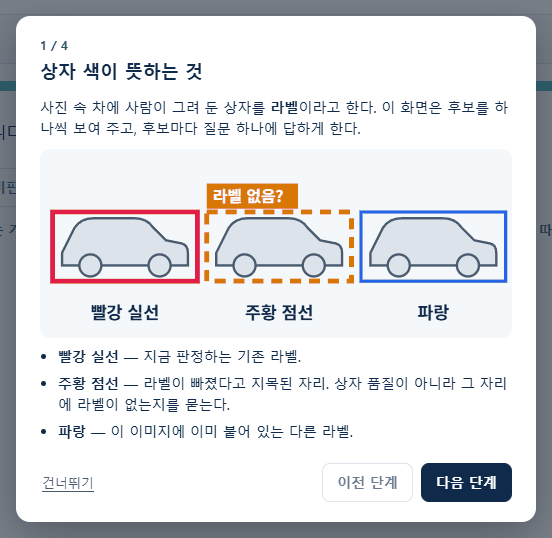
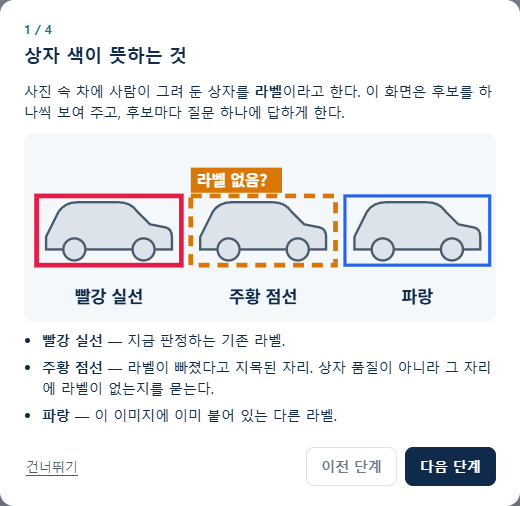
docs: replace README judging screenshots with synthetic demo images

diff --git a/README.md b/README.md
@@ -55,11 +55,13 @@
 - **튜토리얼 1단계** — 처음 열면 상자 색(빨강 실선 = 판정할 라벨, 주황 점선 = 라벨이 빠졌다고 지목된 자리, 파랑 = 다른 라벨)을 먼저 보여 준다.
 - **튜토리얼 3단계** — 누락을 오류로 고르면 같은 실제 객체끼리 같은 번호(M1, M2…)를 붙여 한 객체를 두 번 세지 않게 한다.
 
-<img src="docs/assets/judging-screen.png" alt="누락 후보를 판정하는 화면 — 사진은 흐리게 처리됨" width="720">
+<img src="docs/assets/judging-screen-existing.png" alt="기존 라벨을 판정하는 화면 — 합성 데모 이미지" width="720">
 
-- **판정 화면** — 질문 하나, 판정 버튼 셋(단축키 1·2·3), 누락이면 객체 번호, 진행률과 저장 상태를 한 화면에 둔다. 위 화면은 train 연습 묶음이다.
+<img src="docs/assets/judging-screen.png" alt="누락 후보를 판정하는 화면 — 합성 데모 이미지" width="720">
 
-> 사진은 일부러 흐리게 처리했고 파일명도 바꿨다. nuImages 이미지는 비상업 조건(CC BY-NC-SA)이라 재배포하지 않는다.
+- **판정 화면** — 질문 하나(기존 라벨: "이 라벨은 수정이 필요한가?", 누락: "이 객체의 라벨이 누락됐는가?"), 판정 버튼 셋 — **오류 있음**(1)·**오류 없음**(2)·**판단 보류**(3), 누락이면 객체 번호, 진행률과 저장 상태를 한 화면에 둔다. 저장되면 다음 미판정 후보로 넘어가고, 그림을 누르면(또는 Enter) 원본 전체를 같은 박스와 함께 크게 본다.
+
+> 위 사진은 모두 **합성 데모 이미지**다(도로와 차를 코드로 그린 그림, `demo_001.png` 등). 실제 데이터셋 이미지는 싣지 않는다 — nuImages는 비상업 조건(CC BY-NC-SA)이라 재배포하지 않는다.
 
 ## 지금 어디까지 왔나
 
